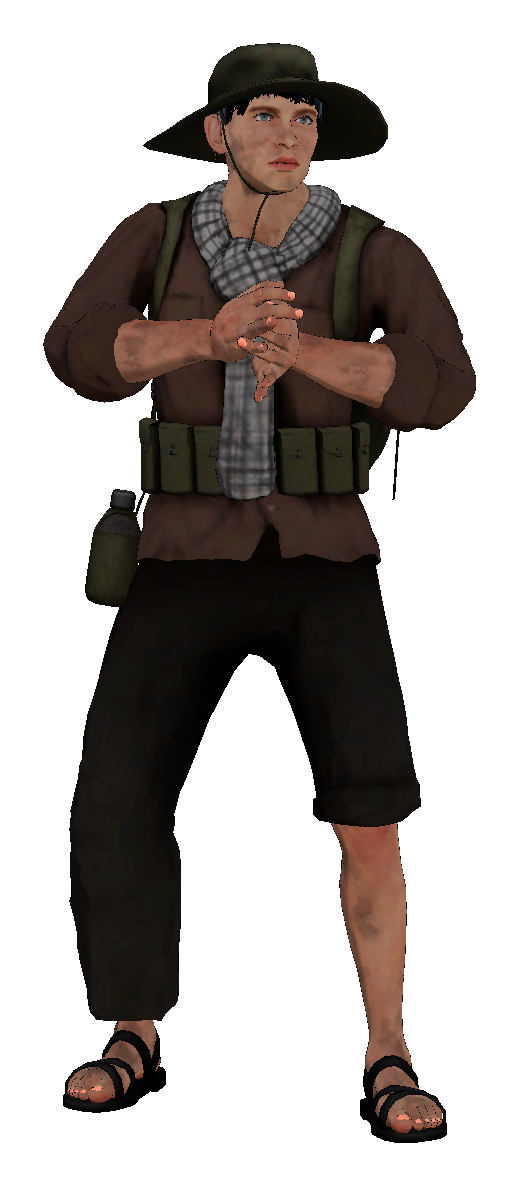
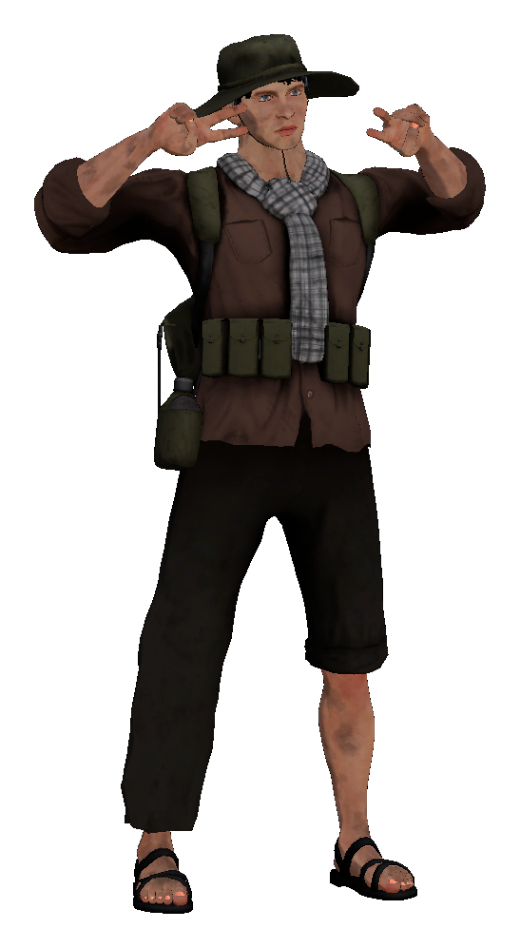
Cập nhật trang web: ảnh đặc vụ pose mới, Anh Tèo làm nhân vật chính, chụp lại ảnh vũ khí, khóa nút Android, thêm mục Công cụ và Đội ngũ

diff --git a/docs/index.html b/docs/index.html
@@ -4,10 +4,10 @@
   <meta charset="utf-8">
   <meta name="viewport" content="width=device-width, initial-scale=1">
   <title>Eclipse Strike — FPS đối kháng</title>
-  <meta name="description" content="Eclipse Strike — game bắn súng góc nhìn thứ nhất đối kháng nhiều người chơi. Đấu đội, đấu đơn, voice chat trong trận, PC và mobile.">
+  <meta name="description" content="Eclipse Strike — game bắn súng góc nhìn thứ nhất đối kháng nhiều người chơi. Đấu đội, đấu đơn, voice chat trong trận. Đã có trên PC, bản mobile sắp ra mắt.">
   <meta name="theme-color" content="#070b0c">
   <meta property="og:title" content="Eclipse Strike — FPS đối kháng">
-  <meta property="og:description" content="Đấu đội 5v5, đấu đơn, voice chat trong trận. Chơi trên PC và mobile.">
+  <meta property="og:description" content="Đấu đội 5v5, đấu đơn, voice chat trong trận. Đã có trên PC, bản mobile sắp ra mắt.">
   <meta property="og:image" content="assets/hero-meridian.jpg">
   <link rel="icon" href="favicon.svg" type="image/svg+xml">
   <link rel="preconnect" href="https://fonts.googleapis.com">
@@ -28,6 +28,8 @@
       <a href="#dac-vu">Đặc vụ</a>
       <a href="#vu-khi">Vũ khí</a>
       <a href="#ban-do">Bản đồ</a>
+      <a href="#cong-cu">Công cụ</a>
+      <a href="#doi-ngu">Đội ngũ</a>
     </nav>
     <a class="btn btn--primary btn--sm topbar__cta" href="#tai-game">Tải game</a>
     <button class="nav-toggle" id="navToggle" aria-label="Mở menu" aria-expanded="false" aria-controls="nav">
@@ -46,11 +48,11 @@
     <section class="hero" aria-labelledby="hero-title">
       <div class="hero__bg" aria-hidden="true"></div>
       <div class="hero__grain" aria-hidden="true"></div>
-      <img class="hero__op hero__op--left" src="assets/op-olivia.png" alt="" aria-hidden="true">
-      <img class="hero__op hero__op--right" src="assets/op-ghost.png" alt="" aria-hidden="true">
+      <img class="hero__op hero__op--left" src="assets/op-ghost.png" alt="" aria-hidden="true">
+      <img class="hero__op hero__op--right" src="assets/op-anhteo.png" alt="" aria-hidden="true">
 
       <div class="hero__content">
-        <p class="kicker"><span class="dot"></span>FPS ĐỐI KHÁNG · PC &amp; MOBILE</p>
+        <p class="kicker"><span class="dot"></span>FPS ĐỐI KHÁNG · PC · MOBILE SẮP RA MẮT</p>
         <h1 class="hero__title" id="hero-title">ECLIPSE<br>STRIKE</h1>
         <ul class="hero__tags">
           <li>Đấu đội 5v5</li>
@@ -78,7 +80,7 @@
       <div class="hud-frame" aria-hidden="true"></div>
       <div class="container features__grid">
         <div class="features__text reveal">
-          <p class="section__index">01 <span>/ 05</span></p>
+          <p class="section__index">01 <span>/ 07</span></p>
           <h2 class="section__title" id="features-title">KỸ NĂNG LÊN TIẾNG<br><em>ĐẤU SÚNG CÔNG BẰNG</em></h2>
           <p class="lead">Mỗi trận thắng thua bằng tâm ngắm, phối hợp đồng đội và quyết định trong tích tắc.</p>
           <ul class="feature-list">
@@ -104,7 +106,7 @@
               <span class="feature-list__ic" aria-hidden="true">
                 <svg viewBox="0 0 24 24"><rect x="3" y="7" width="18" height="10" rx="2" fill="none" stroke="currentColor" stroke-width="2"/><path d="M8 12h2m-1-1v2M15 11h.01M17 13h.01" stroke="currentColor" stroke-width="2"/></svg>
               </span>
-              <div><strong>PC, mobile và tay cầm</strong><span>Chuột phím, cảm ứng, tay cầm có gyro — cùng một trận, cùng một tài khoản.</span></div>
+              <div><strong>Chuột phím và tay cầm</strong><span>Hỗ trợ tay cầm có gyro trên PC. Bản mobile điều khiển cảm ứng sắp ra mắt.</span></div>
             </li>
           </ul>
         </div>
@@ -147,7 +149,7 @@
     <section class="section modes" id="che-do" aria-labelledby="modes-title">
       <div class="container">
         <div class="section__head reveal">
-          <p class="section__index">02 <span>/ 05</span></p>
+          <p class="section__index">02 <span>/ 07</span></p>
           <h2 class="section__title" id="modes-title">CHẾ ĐỘ CHƠI</h2>
         </div>
         <div class="modes__grid">
@@ -178,35 +180,35 @@
       <div class="operators__bg" aria-hidden="true"></div>
       <div class="container operators__grid" data-operators>
         <div class="operators__head reveal">
-          <p class="section__index">03 <span>/ 05</span></p>
+          <p class="section__index">03 <span>/ 07</span></p>
           <h2 class="section__title" id="ops-title">ĐẶC VỤ<br><em>MỖI NGƯỜI MỘT CHẤT</em></h2>
         </div>
 
         <div class="op-list" role="tablist" aria-label="Chọn đặc vụ">
-          <button class="op-thumb is-active" role="tab" aria-selected="true" data-op="ghost">
+          <button class="op-thumb is-active" role="tab" aria-selected="true" data-op="anhteo">
+            <img src="assets/op-anhteo.png" alt=""><span>ANH TÈO</span>
+          </button>
+          <button class="op-thumb" role="tab" aria-selected="false" data-op="ghost">
             <img src="assets/op-ghost.png" alt=""><span>GHOST</span>
           </button>
           <button class="op-thumb" role="tab" aria-selected="false" data-op="olivia">
             <img src="assets/op-olivia.png" alt=""><span>OLIVIA</span>
           </button>
-          <button class="op-thumb" role="tab" aria-selected="false" data-op="anhteo">
-            <img src="assets/op-anhteo.png" alt=""><span>ANH TÈO</span>
-          </button>
         </div>
 
         <div class="op-stage" aria-live="polite">
           <div class="op-stage__ring" aria-hidden="true"></div>
-          <img class="op-stage__img" src="assets/op-ghost.png" alt="Đặc vụ Ghost" data-op-img>
+          <img class="op-stage__img" src="assets/op-anhteo.png" alt="Đặc vụ Anh Tèo" data-op-img>
         </div>
 
         <div class="op-info">
-          <p class="op-info__role" data-op-role>ĐẶC VỤ BÓNG ĐÊM</p>
-          <h3 class="op-info__name" data-op-name>GHOST</h3>
-          <p class="op-info__desc" data-op-desc>Lạnh lùng, bí ẩn. Mặt nạ đầu lâu và kính nhìn đêm — Ghost xuất hiện ở nơi đối thủ ít ngờ nhất và rút lui trước khi ai kịp phản ứng.</p>
+          <p class="op-info__role" data-op-role>XẠ THỦ KIÊN CƯỜNG</p>
+          <h3 class="op-info__name" data-op-name>ANH TÈO</h3>
+          <p class="op-info__desc" data-op-desc>Mũ tai bèo, khăn rằn và đôi dép quen thuộc. Ngoài trận thì vui tính, vào trận thì kiên nhẫn giữ góc — chờ đúng khoảnh khắc để hạ gục chỉ bằng một phát Dusk.</p>
           <ul class="op-info__traits" data-op-traits>
-            <li><b>Phong cách</b><span>Đột nhập, đánh úp</span></li>
-            <li><b>Hợp với</b><span>Umbra · Vesper</span></li>
-            <li><b>Mẹo</b><span>Ném M84 Flash trước khi vào góc</span></li>
+            <li><b>Phong cách</b><span>Giữ góc, bắn tỉa</span></li>
+            <li><b>Hợp với</b><span>Dusk · Vesper</span></li>
+            <li><b>Mẹo</b><span>Dùng AN-M8 Smoke để đổi vị trí an toàn</span></li>
           </ul>
         </div>
       </div>
@@ -216,14 +218,14 @@
     <section class="section weapons" id="vu-khi" aria-labelledby="weapons-title">
       <div class="container">
         <div class="section__head reveal">
-          <p class="section__index">04 <span>/ 05</span></p>
+          <p class="section__index">04 <span>/ 07</span></p>
           <h2 class="section__title" id="weapons-title">KHO VŨ KHÍ</h2>
           <p class="lead">Mỗi khẩu súng một nhịp bắn riêng. Mở khóa thêm vũ khí và skin trong cửa hàng.</p>
         </div>
 
         <div class="weapons__grid">
           <article class="weapon reveal">
-            <img src="assets/wpn-umbra.png" alt="Súng trường Umbra (skin Noble Gold)" loading="lazy">
+            <img src="assets/wpn-umbra.png" alt="Súng trường Umbra" loading="lazy">
             <div class="weapon__meta"><span class="weapon__type">RIFLE</span><h3>Umbra</h3></div>
             <div class="stat"><span>Sát thương</span><i style="--v:.30"></i><b>33</b></div>
           </article>
@@ -262,7 +264,7 @@
     <section class="section maps" id="ban-do" aria-labelledby="maps-title">
       <div class="container">
         <div class="section__head reveal">
-          <p class="section__index">05 <span>/ 05</span></p>
+          <p class="section__index">05 <span>/ 07</span></p>
           <h2 class="section__title" id="maps-title">BẢN ĐỒ</h2>
         </div>
         <div class="maps__grid">
@@ -281,27 +283,125 @@
       </div>
     </section>
 
+
+    <!-- ===== CÔNG CỤ ===== -->
+    <section class="section tools" id="cong-cu" aria-labelledby="tools-title">
+      <div class="container">
+        <div class="section__head reveal">
+          <p class="section__index">06 <span>/ 07</span></p>
+          <h2 class="section__title" id="tools-title">CÔNG CỤ<br><em>TỰ PHÁT TRIỂN</em></h2>
+          <p class="lead">Hai bộ công cụ Unity do <b>Gà Mờ (GaMo Tools)</b> xây dựng và dùng xuyên suốt Eclipse Strike.</p>
+        </div>
+        <div class="tools__grid">
+          <article class="tool reveal">
+            <header class="tool__head">
+              <span class="tool__icon" aria-hidden="true">
+                <svg viewBox="0 0 24 24"><rect x="2.5" y="7" width="19" height="11" rx="3" fill="none" stroke="currentColor" stroke-width="1.8"/><path d="M7.5 10.5v4M5.5 12.5h4" stroke="currentColor" stroke-width="1.8"/><circle cx="16" cy="11.5" r="1.1" fill="currentColor"/><circle cx="18" cy="13.8" r="1.1" fill="currentColor"/></svg>
+              </span>
+              <div>
+                <h3>True Input System</h3>
+                <p class="tool__ver">v1.0.7 · Input đa nền tảng</p>
+              </div>
+            </header>
+            <p>Một API duy nhất cho bàn phím – chuột, tay cầm và màn hình cảm ứng. Toàn bộ điều khiển, menu và cài đặt phím trong game chạy trên hệ thống này.</p>
+            <ul class="tool__features">
+              <li>Joystick ảo &amp; nút bấm trên màn hình</li>
+              <li>Nút kỹ năng định hướng kiểu MOBA</li>
+              <li>Điều hướng UI bằng tay cầm</li>
+              <li>Hỗ trợ ngắm (Aim Assist)</li>
+              <li>Đổi phím (Key Rebinding)</li>
+              <li>Con quay hồi chuyển (gyro) tay cầm</li>
+            </ul>
+          </article>
+          <article class="tool reveal">
+            <header class="tool__head">
+              <span class="tool__icon" aria-hidden="true">
+                <svg viewBox="0 0 24 24"><circle cx="5" cy="18" r="2" fill="none" stroke="currentColor" stroke-width="1.8"/><circle cx="12" cy="10" r="2" fill="none" stroke="currentColor" stroke-width="1.8"/><circle cx="19" cy="5" r="2" fill="none" stroke="currentColor" stroke-width="1.8"/><path d="M6.4 16.5l4.2-5M13.6 8.8l3.8-2.6" stroke="currentColor" stroke-width="1.8"/></svg>
+              </span>
+              <div>
+                <h3>Blender-Style Workflow</h3>
+                <p class="tool__ver">Constraint &amp; rigging cho Unity</p>
+              </div>
+            </header>
+            <p>Mang hệ thống constraint quen thuộc của Blender vào Unity: tay nhân vật bám súng, camera, ngắm bắn và vật lý phụ kiện đều được giải bằng bộ constraint này.</p>
+            <ul class="tool__features">
+              <li>Transform · IK · Damped Track · Damped Track Chain</li>
+              <li>Constraint Scheduler: đồ thị phụ thuộc, sắp xếp thứ tự, phát hiện vòng lặp</li>
+              <li>Dynamic Bone chạy Job System cho tóc, dây, vải</li>
+              <li>Sự kiện animation theo thời gian (Motion Time Event)</li>
+              <li>Thao tác Editor theo phong cách Blender</li>
+            </ul>
+          </article>
+        </div>
+      </div>
+    </section>
+
+    <!-- ===== ĐỘI NGŨ ===== -->
+    <section class="section team" id="doi-ngu" aria-labelledby="team-title">
+      <div class="container">
+        <div class="section__head reveal">
+          <p class="section__index">07 <span>/ 07</span></p>
+          <h2 class="section__title" id="team-title">ĐỘI NGŨ<br><em>PHÁT TRIỂN</em></h2>
+        </div>
+        <div class="team__grid">
+          <article class="member reveal">
+            <span class="member__avatar" aria-hidden="true">H</span>
+            <div class="member__body">
+              <h3>Nguyễn Văn Hậu</h3>
+              <p class="member__role">Gameplay · Mạng · Đồ họa · Animation</p>
+              <ul class="member__tags">
+                <li>Gameplay</li>
+                <li>Photon Fusion</li>
+                <li>Đồ họa 3D</li>
+                <li>Diễn hoạt animation</li>
+              </ul>
+            </div>
+          </article>
+          <article class="member reveal">
+            <span class="member__avatar" aria-hidden="true">K</span>
+            <div class="member__body">
+              <h3>Văn Đình Nam Khánh</h3>
+              <p class="member__role">Giao diện · Backend</p>
+              <ul class="member__tags">
+                <li>UI / UX</li>
+                <li>PlayFab</li>
+              </ul>
+            </div>
+          </article>
+        </div>
+      </div>
+    </section>
+
     <!-- ===== TẢI GAME ===== -->
     <section class="download" id="tai-game" aria-labelledby="dl-title">
       <div class="download__bg" aria-hidden="true"></div>
       <div class="container download__inner reveal">
         <img class="download__headshot" src="assets/ic-headshot.png" alt="" aria-hidden="true">
         <h2 class="download__title" id="dl-title">SẴN SÀNG<br>VÀO TRẬN?</h2>
-        <p class="lead">Tải miễn phí cho Windows và Android. Đăng ký tài khoản ngay trong game.</p>
+        <p class="lead">Tải miễn phí cho Windows. Đăng ký tài khoản ngay trong game.</p>
         <div class="download__actions">
-          <!-- Sửa 2 link dưới thành file build của bạn (vd: GitHub Releases) -->
-          <a class="btn btn--primary btn--lg" href="https://github.com/Ga-Mo221/FPS-CTRL/releases" target="_blank" rel="noopener">
+          <!-- ================================================================
+               LINK TẢI CHO WINDOWS — sửa href bên dưới thành link file build
+               (vd: https://github.com/<tên>/<repo>/releases/latest).
+               ================================================================ -->
+          <a class="btn btn--primary btn--lg" id="download-windows" href="https://github.com/Ga-Mo221/FPS-CTRL/releases" target="_blank" rel="noopener">
             <svg viewBox="0 0 24 24" aria-hidden="true"><path d="M3 5l8-1.2V11H3zM12 3.7L21 2.5V11h-9zM3 12h8v7.2L3 18zM12 12h9v8.5l-9-1.2z" fill="currentColor"/></svg>
             Tải cho Windows
           </a>
-          <a class="btn btn--ghost btn--lg" href="https://github.com/Ga-Mo221/FPS-CTRL/releases" target="_blank" rel="noopener">
+          <!-- Bản Android chưa phát hành: nút bị khóa. Khi phát hành, đổi <span> thành <a href="link-apk"> và bỏ class btn--disabled. -->
+          <span class="btn btn--ghost btn--lg btn--disabled" id="download-android" role="link" aria-disabled="true" title="Bản Android sắp ra mắt">
             <svg viewBox="0 0 24 24" aria-hidden="true"><path d="M7 9h10v8a1 1 0 01-1 1h-1v3h-2v-3h-2v3H9v-3H8a1 1 0 01-1-1zM4 9h2v6H4zm14 0h2v6h-2zM8.5 4l-1-1.5M15.5 4l1-1.5M7 8a5 5 0 0110 0z" fill="currentColor"/></svg>
-            Tải cho Android
-          </a>
+            Android
+            <em class="soon-badge">Sắp ra mắt</em>
+          </span>
         </div>
+        <p class="notice" role="note">
+          <svg viewBox="0 0 24 24" aria-hidden="true"><circle cx="12" cy="12" r="9" fill="none" stroke="currentColor" stroke-width="2"/><path d="M12 7v6m0 3.5v.5" stroke="currentColor" stroke-width="2.2"/></svg>
+          Bản mobile (Android) chưa phát hành — đang được hoàn thiện điều khiển cảm ứng và tối ưu hiệu năng. Theo dõi trang này để nhận thông tin sớm nhất.
+        </p>
         <dl class="specs">
           <div><dt>PC</dt><dd>Windows 10/11 64-bit · DirectX 11</dd></div>
-          <div><dt>ANDROID</dt><dd>Android 7.1+ · ARM64 · Vulkan / OpenGL ES 3</dd></div>
+          <div><dt>ANDROID · SẮP RA MẮT</dt><dd>Android 7.1+ · ARM64 · Vulkan / OpenGL ES 3</dd></div>
           <div><dt>KẾT NỐI</dt><dd>Cần Internet · Máy chủ khu vực Châu Á</dd></div>
         </dl>
       </div>
@@ -310,7 +410,7 @@
 
   <!-- Thanh tải game dính dưới đáy, hiện sau khi cuộn qua hero -->
   <div class="dock" id="dock" aria-hidden="true">
-    <span class="dock__badge">PC · MOBILE</span>
+    <span class="dock__badge">PC · WINDOWS</span>
     <span class="dock__text">TẢI NGAY GAME BẮN SÚNG <em>ECLIPSE STRIKE</em></span>
     <a class="btn btn--primary btn--sm" href="#tai-game" tabindex="-1">Tải game</a>
   </div>
@@ -322,6 +422,7 @@
         <a href="#tinh-nang">Tính năng</a>
         <a href="#dac-vu">Đặc vụ</a>
         <a href="#vu-khi">Vũ khí</a>
+        <a href="#doi-ngu">Đội ngũ</a>
         <a href="https://github.com/Ga-Mo221/FPS-CTRL" target="_blank" rel="noopener">GitHub</a>
       </nav>
       <p class="footer__note">UNITY · PHOTON FUSION · PLAYFAB</p>

diff --git a/docs/css/style.css b/docs/css/style.css
@@ -406,6 +406,62 @@ button { font: inherit; color: inherit; background: none; border: 0; cursor: poi
 .specs dt { font: 700 12px/1 var(--font-display); letter-spacing: .24em; color: var(--teal); margin-bottom: 8px; }
 .specs dd { margin: 0; font-size: 14px; color: #c3cfce; }
 
+/* Nút bị khóa (bản Android chưa phát hành) */
+.btn--disabled { cursor: not-allowed; color: #7f8b8a; background: rgba(255, 255, 255, .04); box-shadow: inset 0 0 0 1px rgba(255, 255, 255, .12); }
+.btn--disabled:hover { transform: none; background: rgba(255, 255, 255, .04); color: #7f8b8a; filter: none; }
+.soon-badge {
+  font: 700 10px/1 var(--font-display); font-style: normal; letter-spacing: .14em;
+  padding: 5px 7px; color: #1d1600; background: var(--gold);
+}
+.notice {
+  display: flex; align-items: flex-start; gap: 10px;
+  max-width: 640px; margin: 22px auto 0; padding: 12px 16px;
+  text-align: left; font-size: 14px; color: #d8cfae;
+  background: rgba(242, 193, 78, .08); border: 1px solid rgba(242, 193, 78, .35);
+}
+.notice svg { flex: none; width: 18px; height: 18px; margin-top: 2px; color: var(--gold); }
+
+/* ---------- Công cụ ---------- */
+.tools { background: linear-gradient(180deg, var(--bg-2), var(--bg)); }
+.tools .lead b { color: var(--text); }
+.tools__grid { display: grid; grid-template-columns: repeat(2, minmax(0, 1fr)); gap: 20px; }
+.tool {
+  position: relative; padding: 30px 30px 28px;
+  background: linear-gradient(160deg, var(--panel-2), var(--panel) 65%);
+  border: 1px solid var(--line-soft);
+  clip-path: polygon(0 0, calc(100% - 26px) 0, 100% 26px, 100% 100%, 0 100%);
+  transition: border-color .3s, transform .3s;
+}
+.tool:hover { border-color: var(--line); transform: translateY(-4px); }
+.tool__head { display: flex; align-items: center; gap: 16px; margin-bottom: 18px; }
+.tool__icon { flex: none; width: 56px; height: 56px; display: grid; place-items: center; color: var(--teal); background: rgba(79, 214, 201, .1); border: 1px solid var(--line); }
+.tool__icon svg { width: 30px; height: 30px; }
+.tool h3 { margin: 0; font: 700 26px/1.1 var(--font-display); }
+.tool__ver { margin: 6px 0 0; font: 600 12px/1 var(--font-display); letter-spacing: .16em; text-transform: uppercase; color: var(--gold); }
+.tool > p { margin: 0 0 20px; color: var(--muted); }
+.tool__features { list-style: none; margin: 0; padding: 0; display: grid; gap: 10px; }
+.tool__features li { position: relative; padding-left: 22px; font-size: 15px; }
+.tool__features li::before { content: ""; position: absolute; left: 0; top: .6em; width: 10px; height: 2px; background: var(--teal); }
+
+/* ---------- Đội ngũ ---------- */
+.team { background: var(--bg); }
+.team__grid { display: grid; grid-template-columns: repeat(2, minmax(0, 1fr)); gap: 20px; }
+.member {
+  display: flex; align-items: center; gap: 24px; padding: 26px 28px;
+  background: rgba(16, 26, 27, .85); border: 1px solid var(--line-soft);
+  border-left: 3px solid var(--teal);
+}
+.member__avatar {
+  flex: none; width: 84px; height: 84px; display: grid; place-items: center;
+  font: 700 38px/1 var(--font-display); color: #04201d;
+  background: linear-gradient(135deg, var(--teal), var(--teal-2));
+  clip-path: polygon(14px 0, 100% 0, 100% calc(100% - 14px), calc(100% - 14px) 100%, 0 100%, 0 14px);
+}
+.member h3 { margin: 0; font: 700 26px/1.15 var(--font-display); }
+.member__role { margin: 4px 0 14px; font: 600 12px/1.3 var(--font-display); letter-spacing: .16em; text-transform: uppercase; color: var(--teal); }
+.member__tags { list-style: none; margin: 0; padding: 0; display: flex; flex-wrap: wrap; gap: 8px; }
+.member__tags li { padding: 6px 10px; font: 600 12px/1 var(--font-display); letter-spacing: .06em; background: rgba(255, 255, 255, .06); border: 1px solid var(--line-soft); }
+
 /* Thanh tải dính dưới đáy */
 .dock {
   position: fixed; left: 50%; bottom: 18px; z-index: 45;
@@ -440,6 +496,11 @@ button { font: inherit; color: inherit; background: none; border: 0; cursor: poi
 @keyframes cue { 0% { opacity: 0; transform: translateY(0); } 40% { opacity: 1; } 100% { opacity: 0; transform: translateY(14px); } }
 
 /* ---------- Responsive ---------- */
+@media (max-width: 1240px) {
+  .nav a { padding: 10px 9px; font-size: 13px; letter-spacing: .08em; }
+  .nav a::after { left: 9px; right: 9px; }
+  .topbar { gap: 18px; }
+}
 @media (max-width: 1100px) {
   .weapons__grid { grid-template-columns: repeat(3, minmax(0, 1fr)); }
   .maps__grid { grid-template-columns: 1fr 1fr; }
@@ -477,6 +538,7 @@ button { font: inherit; color: inherit; background: none; border: 0; cursor: poi
   .op-info { max-width: none; }
   .hero__op--right { opacity: .35; right: 50%; transform: translateX(50%); height: 76vh; animation: none; }
   .utilities { grid-template-columns: 1fr; }
+  .tools__grid, .team__grid { grid-template-columns: 1fr; }
   .specs { grid-template-columns: 1fr; }
   .footer__inner { grid-template-columns: 1fr; justify-items: center; text-align: center; }
   .side-tab { display: none; }
@@ -494,6 +556,8 @@ button { font: inherit; color: inherit; background: none; border: 0; cursor: poi
   .dock__text { font-size: 13px; text-align: left; }
   .slider__dots { display: none; }
   .op-info__traits li { grid-template-columns: 1fr; gap: 4px; }
+  .member { flex-direction: column; align-items: flex-start; gap: 16px; }
+  .tool { padding: 24px 20px; }
   .btn--lg { --h: 54px; padding: 0 30px; font-size: 14px; }
 }
 @media (prefers-reduced-motion: reduce) {

diff --git a/docs/js/main.js b/docs/js/main.js
@@ -76,7 +76,7 @@
       name: "ANH TÈO",
       role: "XẠ THỦ KIÊN CƯỜNG",
       img: "assets/op-anhteo.png",
-      desc: "Mũ tai bèo, khăn rằn và đôi dép quen thuộc. Anh Tèo kiên nhẫn giữ góc, chờ đúng khoảnh khắc để hạ gục chỉ bằng một phát Dusk.",
+      desc: "Mũ tai bèo, khăn rằn và đôi dép quen thuộc. Ngoài trận thì vui tính, vào trận thì kiên nhẫn giữ góc — chờ đúng khoảnh khắc để hạ gục chỉ bằng một phát Dusk.",
       traits: [["Phong cách", "Giữ góc, bắn tỉa"], ["Hợp với", "Dusk · Vesper"], ["Mẹo", "Dùng AN-M8 Smoke để đổi vị trí an toàn"]]
     }
   };
